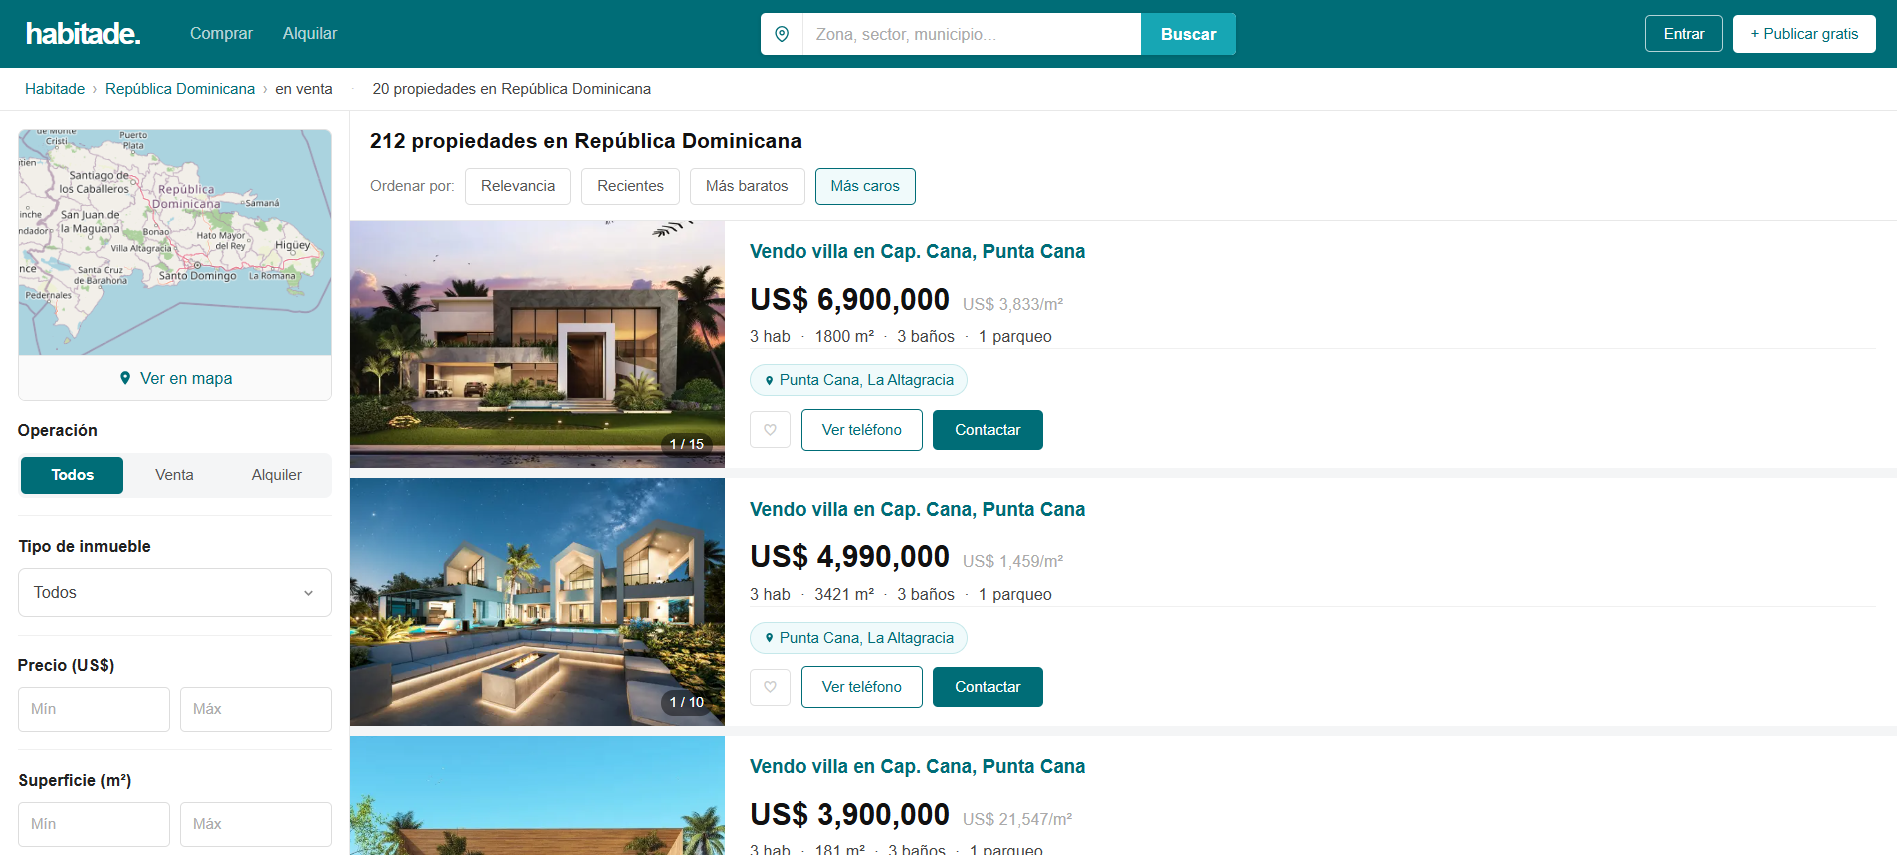
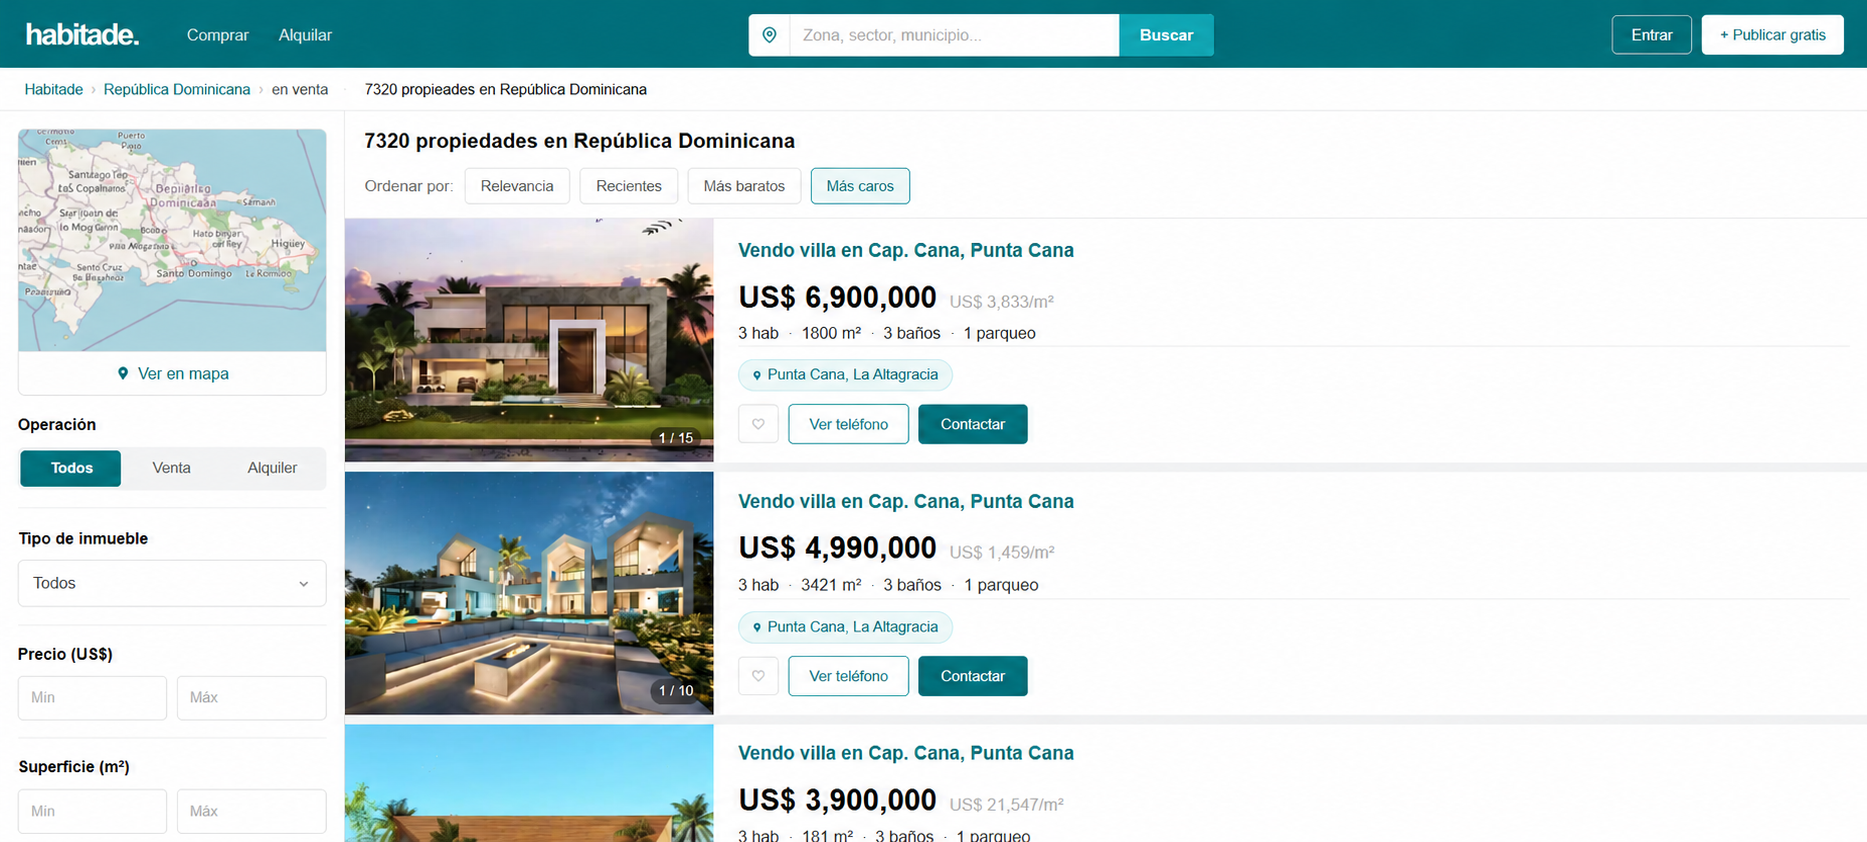
fix: nueva captura buscar-preview con 7320 propiedades, quitar overlay innecesario

diff --git a/app/planes/page.tsx b/app/planes/page.tsx
@@ -180,10 +180,6 @@ export default function Planes() {
             <div style={{ position: 'relative', borderRadius: '10px 10px 0 0', overflow: 'hidden' }}>
               <img src="/buscar-preview.png" alt="Habitade búsqueda"
                 style={{ width: '100%', display: 'block', objectFit: 'cover', objectPosition: 'top', maxHeight: 360 }} />
-              {/* Tapar "212 propiedades..." y mostrar 7.320 */}
-              <div style={{ position: 'absolute', zIndex: 1, top: '11%', left: '15%', right: 0, height: '10%', background: '#fff', display: 'flex', alignItems: 'center', paddingLeft: 4 }}>
-                <span style={{ fontSize: 9.5, fontWeight: 700, color: '#111' }}>7.320 propiedades en República Dominicana</span>
-              </div>
             </div>
           </div>
         </div>
